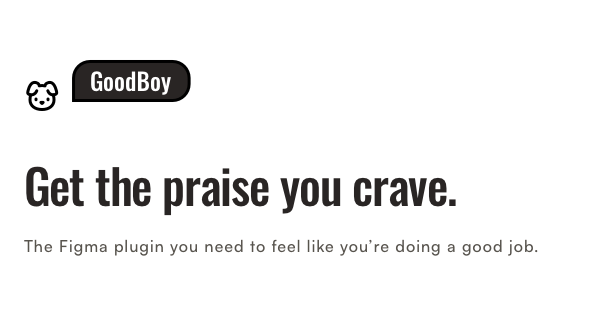
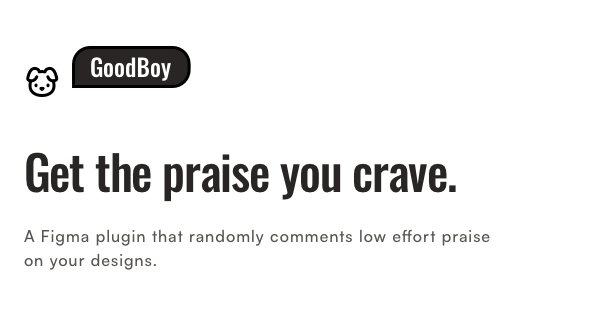
Updating copy/layout on Goodboy. Updating project list copy and versions. Updating Goodboy Opengraph images.

Changed region(s): [[0.03, 0.4857, 0.78, 0.6857], [0.03, 0.7143, 0.9, 0.8571], [0.03, 0.1429, 0.33, 0.3714]]

diff --git a/src/components/good-boy/partials/Features.svelte b/src/components/good-boy/partials/Features.svelte
@@ -5,7 +5,7 @@
     {
       icon: "lucide:ban",
       title: "No need to post to social media.",
-      description: "Get the mindless reactions you would get from posting from the comfort of your figma bubble.",
+      description: "Get the mindless reactions you would get from posting from the comfort of your Figma bubble.",
     },
     {
       icon: "lucide:message-circle-heart",
@@ -16,7 +16,7 @@
     {
       icon: "lucide:circle-check",
       title: "Generic low effort feedback.",
-      description: "You get it elsewhere. Now get it instantly. Nothing too clear. The “make it pop” of figma plugins.",
+      description: "You get it elsewhere. Now get it instantly. Nothing too clear. The “make it pop” of Figma plugins.",
     },
   ];
 </script>
@@ -25,7 +25,7 @@
   <div class="flex flex-col justify-between gap-12 md:flex-row">
     {#each features as { icon, title, description }, index}
       <div class="flex w-sm flex-col gap-3 md:w-full xl:w-sm">
-        <div class="relative flex flex-row items-center gap-3 md:flex-col md:items-start xl:flex-row xl:items-center">
+        <div class="relative flex flex-col gap-3">
           {#if index === 0}
             <Comment pos="bottom-10 left-8 md:-right-8" comment={{ time: "14 mins ago.", content: "Great copy!" }} />
           {/if}

diff --git a/src/components/good-boy/Main.svelte b/src/components/good-boy/Main.svelte
@@ -16,7 +16,7 @@
         delay={1200}
       />
       <h1>Get the praise you crave.</h1>
-      <p class="text-xl">The only Figma plugin you need to feel like you’re doing a good job.</p>
+      <p class="text-xl">A Figma plugin that randomly comments low effort praise on your designs.</p>
     </div>
     <div class="relative flex flex-col place-self-center">
       <Comment
@@ -47,6 +47,6 @@
     }
   }
   .button {
-    @apply cursor-pointer place-self-center rounded-lg border border-stone-600 bg-stone-800 px-4 py-2 font-[Roboto] font-semibold tracking-wide text-stone-50 ring ring-stone-800 text-shadow-sm;
+    @apply cursor-pointer place-self-center rounded-lg border border-stone-600 bg-stone-800 px-4 py-2 font-[Roboto] font-semibold tracking-wide text-stone-50 ring ring-stone-800 transition-transform duration-300 text-shadow-sm hover:scale-105;
   }
 </style>

diff --git a/src/components/glyph-palette/Plugin.svelte b/src/components/glyph-palette/Plugin.svelte
@@ -40,7 +40,7 @@
       <li class="size-2.5 rounded-full bg-gray-300"></li>
       <li class="size-2.5 rounded-full bg-green-500"></li>
     </ul>
-    <strong class="text-xxs w-full text-center">Glyph Palette v1.0.0</strong>
+    <strong class="text-xxs w-full text-center">Glyph Palette v1.1.1</strong>
   </div>
   <div class="flex flex-row items-center justify-between px-3 py-3 md:px-4">
     <ul class="filters">

diff --git a/src/components/glyph-palette/Form.svelte b/src/components/glyph-palette/Form.svelte
@@ -48,7 +48,7 @@
 
 <div class="form">
   {#if !submitted}
-    <div class="flex flex-col gap-2">
+    <div class="flex flex-col gap-1">
       <h3>Try the Beta</h3>
       <p>Enter your email to get a download link for the lastest version.</p>
     </div>
